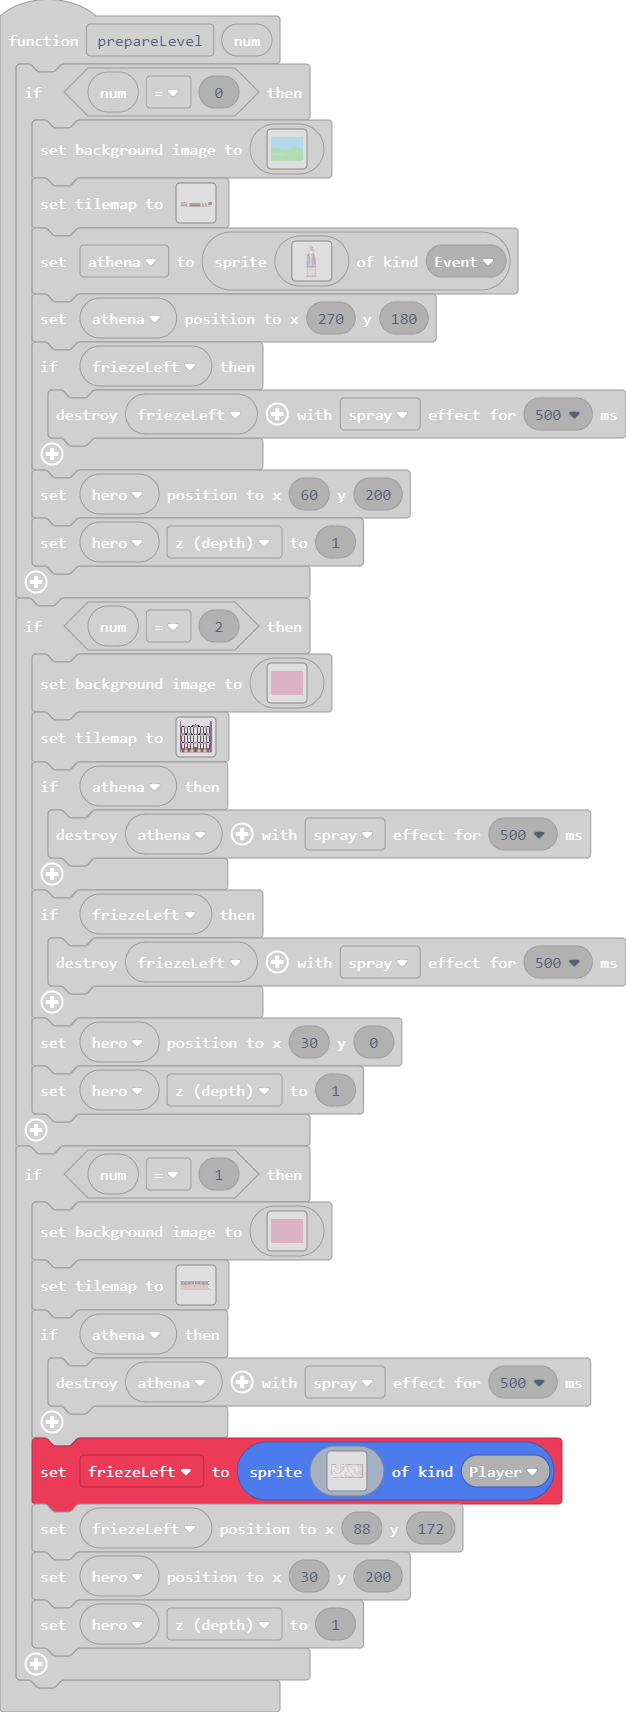
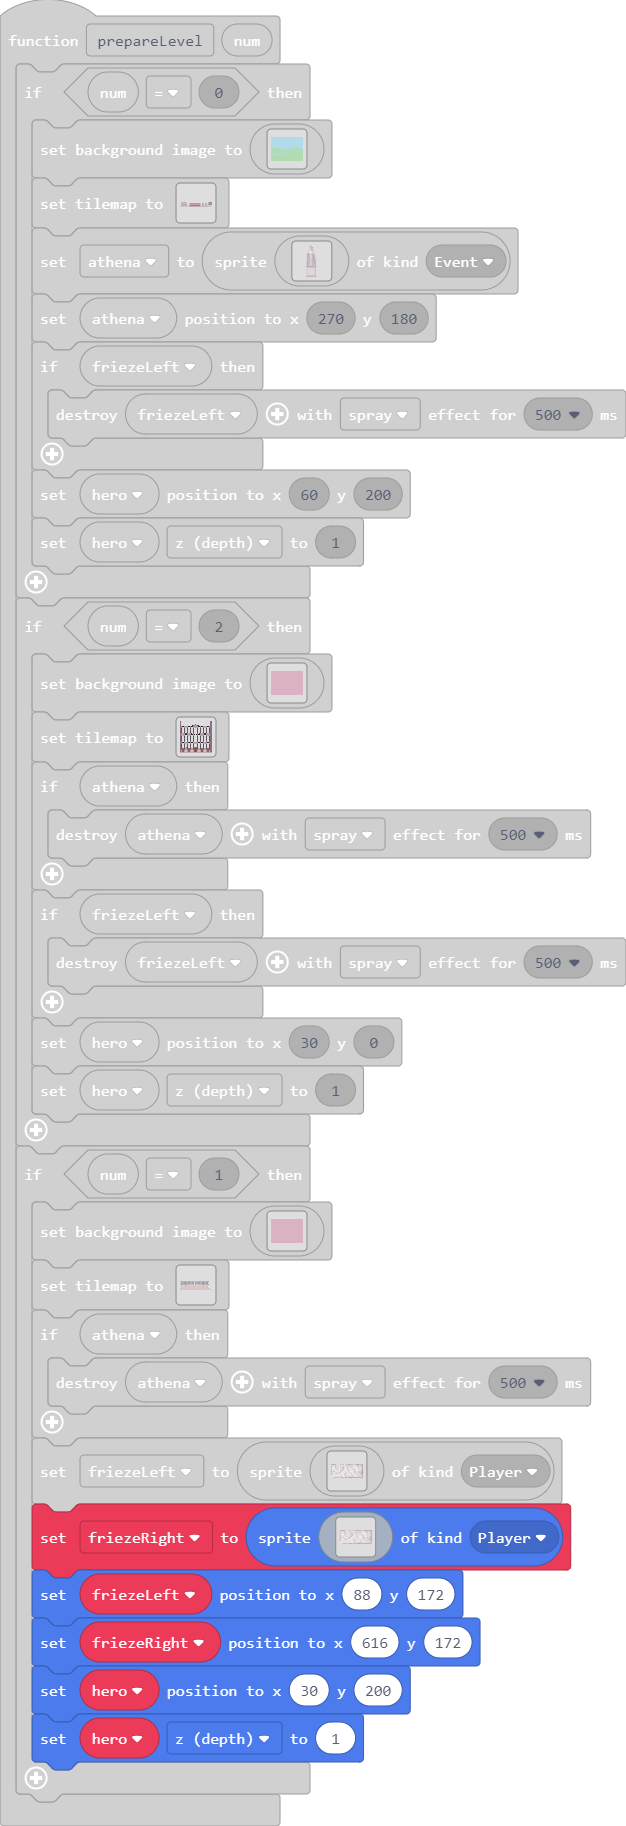
right frieze

diff --git a/main.ts b/main.ts
@@ -2261,11 +2261,63 @@ c 1 1 1 1 d d d d d d d d d d d d 1 1 1 1 1 1 1 1 1 1 1 d b b 1 1 1 1 1 1 1 1 1 
 1 1 1 1 1 1 1 1 d d d d d b b b b b d d d d d d d d d 1 1 1 d 1 1 d c c c c c 1 c c c c 1 1 c c b b b c c c 1 1 1 1 c c c c c c c c c c c c c c c d d d d d d d d 1 d d c c c c c c c c c c c c c c 1 c c c c c c c c c d d c c 
 c 1 1 1 1 c c c c c c c c c c c c c c c c c c c c c c c c 1 c c c c c c c c c c c c c c c c c b b b c c c c c c c 1 c c c c c c c c c c c c c c c c c c c c c c c c c c c c c c c c c c c c c c c c c c c c c c c c c c c c c c 
 `, SpriteKind.Player)
+        friezeRight = sprites.create(img`
+c c c c c c c c c c c c c c c c d d d d d d d d d d d 1 1 1 1 1 1 d d d c c 1 c c c c c c d 1 1 1 b b c c c c c c c . c c c c c c c c c c c c c c c c b c 1 c c c c c c c c c c c c c c c c c c c c c c c c c c c c c c 3 c c c 
+c c d c c c c c c c d d d d d c d c d d d d d d c c 1 1 1 1 1 1 c c c c d 1 1 1 d d d c c c 1 1 1 b b d d d d d d c c c c c c c c c c c c c c c d d b b 1 1 d d d d d 1 c b c c c c c c c c c c d d d d d d d d d d d d 3 c c c 
+c d d d d d d d d c c c c c c c d d d d d d d d d 1 1 1 1 1 1 1 c c c c c 1 1 1 1 c c d c 1 1 1 1 1 b d d d d d d c d d d d c c d d d d d d d d d d b b 1 1 d d d d d 1 1 b d d d d d d d c d c d c c c c c c c c c c 3 3 3 c 3 
+c d d d d d d d d d d d d c c c d d d d d d d d d 1 1 1 1 1 1 d d d d d 1 1 1 1 1 1 1 d c 1 1 1 1 1 b b d d d d d d d d d d d d d d d d d d d d d d b b 1 1 d d d d 1 1 1 1 b b d d d d d c d c c d d d d d d d d d d 3 3 3 c c 
+c d d d d d d d d 1 1 1 b b c d d d d d d d d d d 1 1 1 1 1 d d d d d 1 1 b 1 1 1 1 d 1 d 1 1 1 1 1 1 b d d d d d d d d d d d c d d d d d d d d d b b b 1 1 d d d d 1 1 1 1 1 1 b d d d d c d c c d d d d d d d d d d 3 3 3 c c 
+c d d d d d d d 1 1 1 1 1 b b d b d d d d d d d d 1 b b b b b b 1 d 1 1 b b 1 1 1 d 1 1 1 d 1 1 1 1 1 b b d d d d c d d d d d d d d d d d d d d d b b 1 1 1 d d d d 1 1 1 1 1 1 1 b b 1 d d c c d d d d d d d d d d d 3 3 3 c c 
+c d d d d d d d 1 1 d 1 1 b b d b d d d d d d d d d b b b 1 1 d 1 d 1 1 b 1 1 b 1 1 1 1 1 1 1 1 1 1 b b d d d d 1 1 d b b b c d d d d d d d d d d b b 1 1 1 d d d d 1 1 1 1 1 1 1 b b b d d c c d d d d d d d d d d d 3 3 3 c c 
+c d d d d d d c 1 1 1 1 1 1 b b b d d d d d d d d d b b b b 1 1 1 d 1 b 1 1 1 b b b 1 1 d 1 c 1 d d b d d d d 1 1 1 1 1 1 1 b b d d d d d d d d d b b 1 1 1 1 d d d 1 1 d 1 1 1 d b 1 b 1 d c c d d d d d d b d d d d 3 3 3 c c 
+c d d d d d c d 1 1 1 1 1 1 b b b d d d d d d d 1 1 1 1 1 1 1 1 1 1 b 1 1 1 b b b b b 1 1 1 1 d 1 d d b d d d d d c 1 1 1 1 1 1 b b d d d d d d d b b 1 1 1 1 d d d 1 d 1 1 d 1 d d 1 1 b 1 c c d d d 1 1 1 b b d d d 3 . 3 c c 
+c d d d d d c 1 d 1 1 1 1 1 b b b d d d d d d 1 1 1 1 1 1 1 1 1 1 1 1 d 1 b b d d b b b b 1 d 1 d 1 d d b b d d c d d d d d c c 1 1 b b d d d d d b b 1 1 1 1 1 d d d 1 d 1 d 1 1 1 1 1 1 b c c d d 1 1 1 1 1 1 b b d 3 . 3 c c 
+c c d d d d 1 1 d 1 1 1 1 1 b b b d d d d d d 1 1 1 1 1 1 1 1 1 1 b b d b b d d d d d b b b 1 1 1 1 1 1 1 1 b d c d d d d d c 1 d d 1 b b d d d d b d 1 d 1 1 1 d d d 1 1 1 d 1 1 1 1 1 1 1 b c d d d d d 1 1 1 1 b 1 3 . 3 c c 
+. c d d d d 1 d 1 1 1 1 1 1 b b b d d d d 1 1 1 1 1 d 1 1 1 1 1 1 b b d d d d d d d b c c b 1 d 1 1 1 1 1 1 1 b c d d d d 1 c 1 1 d d 1 b d d d d d d d 1 1 1 1 1 d 1 1 1 1 d 1 1 1 1 1 d 1 1 b d d d d d d d 1 1 1 b 3 . 3 c c 
+. c d d 1 1 1 d d 1 1 1 1 d b b d b d d d 1 1 b b 1 c 1 1 1 1 1 1 1 b c d d d d d d b c d d 1 1 1 1 1 1 1 d d d b d d d d 1 1 1 1 d d 1 1 b b d d d d d d d 1 1 1 1 1 1 1 1 1 1 1 1 1 1 1 1 1 b d d d d d d d d 1 1 1 1 3 3 c c 
+c c d d 1 1 d 1 1 1 1 1 1 1 d b c c c c 1 1 b b 1 b d 1 1 1 1 1 1 1 b b d d c d d d b b d d 1 d d d 1 1 1 1 1 c b d d d d 1 1 1 1 1 d d 1 1 b d d d d d d d d d 1 1 1 1 1 1 1 1 1 1 1 1 1 1 1 1 b d d d d d d d 1 1 1 1 1 c c c 
+c d d d 1 1 1 1 1 1 1 1 1 1 1 1 b b b b 1 1 b b b b c 1 1 1 1 1 1 1 b d d d d d d d b c b c c 1 1 1 1 1 1 d 1 c d d d d d b 1 1 1 1 d d 1 1 b b d d d d d d d d d d d 1 1 1 1 1 1 1 1 1 1 1 1 1 b d d d d d d d d 1 1 1 1 c c c 
+c c c 1 1 1 1 1 1 1 1 1 1 1 1 1 1 1 b b 1 d b d 1 b d 1 1 1 1 1 1 1 b d d d d d d d b b b d d 1 1 1 1 1 1 1 d b d d d d d b 1 1 1 1 1 d d 1 1 1 1 b d d d d d d d d d b 1 d 1 1 1 1 1 1 1 1 1 1 b d d d d d d d d 1 d 1 1 c c c 
+d d d d 1 1 1 1 1 1 1 1 1 1 1 1 1 1 1 d 1 1 d d 1 b 1 1 1 1 1 1 1 1 b d d d b b b d d b d b d 1 1 1 1 1 1 1 d b d d d d d b 1 1 1 1 1 1 d d 1 1 1 b b d d d d d d d d b 1 1 1 1 1 1 1 1 1 1 c 1 b d d d d d d d d 1 d 1 1 c c c 
+d d d d d 1 d 1 d 1 1 1 1 1 1 1 1 d d d 1 1 1 1 d b b 1 1 1 1 1 1 1 b d b b 1 1 b b c c b b b b 1 1 1 1 1 1 1 b d d d d d b 1 1 1 1 1 1 d d 1 1 1 1 b d d d d d d d d d b d 1 1 1 1 1 1 1 d 1 1 b d d d d d d d 1 1 d 1 1 c c c 
+d d d d d d d d 1 1 1 1 1 1 1 d d d d d d 1 1 1 1 1 1 1 1 1 1 1 1 1 b c b 1 1 1 b b b d b b b b 1 1 1 1 1 1 1 d b d d d d d 1 1 1 1 1 1 1 d 1 1 1 1 1 b d d d d d d d d b 1 d 1 d 1 1 1 1 1 1 1 b 1 d d d d d d 1 1 1 3 1 c c c 
+d d d d d d d 1 1 1 d 1 c 1 d 1 1 d d d d d 1 1 1 c 1 1 1 1 1 1 1 b b d 1 1 1 1 1 b b d b b 1 1 1 1 1 1 1 1 1 1 b d d d d d 1 c d d 1 1 d d 1 1 1 1 1 1 b d d d d d d d d b 1 d 1 1 1 1 1 1 1 c 1 1 d d d d d 1 1 1 1 1 . c c c 
+c c d d d d 1 1 1 1 1 1 1 1 1 c c 1 1 d d d d 1 1 d 1 1 1 1 1 1 b b d 1 1 1 d d 1 1 b b b d 1 1 1 1 1 1 d 1 1 1 b d d d d d b 1 1 1 b 1 d 1 1 1 1 1 1 1 1 b d d d d d d d b b b 1 1 1 1 1 1 1 c 1 1 d d d d 1 1 1 1 1 3 . c c c 
+c d d d d 1 1 1 1 d 1 1 1 1 1 d 1 1 d 1 1 1 1 1 1 b 1 1 1 1 1 1 b b 1 1 c c d d d 1 1 b b d 1 1 1 1 1 1 1 1 1 1 d b d d d d c d d d d 1 d 1 1 1 1 1 1 1 1 b d d d d d d d b b b 1 1 1 1 1 1 1 b 1 1 1 d d 1 1 1 1 1 d 3 . c c c 
+c c d d d 1 1 1 1 1 1 1 1 1 1 1 1 1 1 d d d 1 1 b b d 1 1 1 1 1 1 1 1 c c d d d c d 1 d 1 1 1 1 1 b 1 1 1 1 1 1 1 b d d d d d d d d 1 d 1 1 1 1 1 1 1 1 1 b d d d d d 1 b b b 1 1 1 1 1 1 1 1 1 b 1 1 1 1 1 b d 1 d d 3 . c c c 
+c c d d d 1 1 1 d 1 d 1 1 1 1 1 1 1 1 1 c c c b b b c 1 1 1 1 1 1 1 c c d d d d c c d d 1 1 1 1 1 1 1 1 1 1 d 1 1 1 b d d d d d d d 1 1 1 1 1 1 1 1 1 1 1 1 b d d 1 1 b b 1 1 1 1 1 1 1 1 1 1 1 b 1 1 1 d d b d d d d 3 c c c c 
+c c d d d 1 d c 1 c c c c 1 1 1 1 1 1 1 1 1 1 b 1 d d 1 1 1 1 d 1 1 c d d d d d d c 1 1 1 d 1 1 1 1 1 1 1 1 1 d 1 1 1 b d d d d d d 1 1 1 1 1 1 1 1 1 1 1 1 b b 1 1 b b b b 1 1 1 1 1 1 b 1 1 c b 1 1 d d b b d d d d 3 c c c c 
+c c d d d 1 c d 1 1 d b b c 1 1 1 1 1 1 1 1 1 1 1 d d 1 1 1 1 1 1 c c d d d d d d 1 1 1 1 1 1 1 1 1 1 b 1 1 1 1 1 1 1 d b d d d d d 1 1 1 1 1 1 1 1 1 1 1 1 d b 1 b b 1 1 b b b 1 1 1 1 b 1 1 1 b d 1 d b b d d d d d 3 c c . c 
+c c d d d c d c 1 1 1 1 c b 1 1 1 1 1 1 1 1 1 1 1 1 1 1 1 1 1 1 d c d d d d d 1 1 1 1 1 1 1 1 1 1 1 b b 1 1 1 1 1 1 1 1 b d d d d d 1 1 1 1 1 1 1 1 1 1 1 1 1 1 1 b b b d 1 b b b 1 1 1 1 1 d 1 d b b b b d d d d d d 3 c c . c 
+c c d d d d d d 1 1 1 1 1 c b c 1 1 1 1 1 1 1 1 1 1 1 1 1 1 1 1 c c d d d d d 1 1 1 1 d 1 1 1 1 1 1 d b 1 1 1 1 1 1 1 1 d b d d d d 1 1 1 1 d 1 1 1 1 1 1 1 1 1 b b 1 b b d 1 1 d b 1 1 1 1 d c 1 b b b d d d d d d d 3 c c c c 
+c c d d d d d d 1 d 1 1 1 1 d b b c 1 1 1 1 1 1 1 1 1 1 1 1 1 c c d d d d d 1 1 1 1 1 1 d 1 1 1 1 1 1 1 1 1 1 1 1 d 1 1 1 b d c d d 1 1 1 1 b 1 1 1 1 1 1 1 1 1 b 1 1 1 1 b d 1 1 1 b b 1 b 1 c d 1 b d d d d d d d d 3 c c c c 
+c d d d d d d d 1 d 1 1 1 1 1 d d b b 1 1 1 1 1 1 1 1 1 1 c c c d d d d c 1 1 1 1 1 1 c 1 1 1 1 1 c c c 1 1 1 c 1 1 1 1 1 1 b c d d 1 1 1 1 b 1 1 1 1 1 1 1 1 b b b d 1 1 1 b d 1 1 b 1 1 1 1 c 1 1 b b d d d d d d d 3 c c c c 
+c d d d d d d 1 1 1 1 1 1 1 1 1 d d c 1 c 1 1 1 c 1 1 c 1 c d d d d d c 1 1 1 1 1 1 1 1 1 1 1 1 1 c d 1 1 1 d 1 d 1 1 1 1 1 b b d d 1 1 1 1 b b 1 1 1 1 1 1 1 1 b b d d d 1 b 1 1 1 b b 1 c 1 b d 1 1 b b d d b d d d 3 c c c c 
+c c d d d d d 1 1 1 1 1 1 c 1 c c d c c c 1 1 1 c b b 1 c d d d d d 1 1 1 1 1 1 1 1 1 1 1 1 1 1 c c 1 1 1 c c b 1 1 1 1 1 1 1 b d d 1 1 1 1 b b 1 1 1 1 1 1 1 1 c 1 b c c c b b 1 1 1 b 1 b d 1 b d 1 b d b d b d d d 3 c c c c 
+c c d d d d d 1 1 1 1 d d d 1 d d d d d 1 1 1 b b d d d d d d d 1 1 1 1 1 1 1 1 1 1 1 1 1 1 1 d c d 1 1 1 d d b b d 1 1 1 1 1 b d d 1 1 1 1 b d b 1 1 1 1 1 1 1 1 1 1 b 1 1 1 b 1 1 1 d b 1 1 d 1 b d 1 b d b d b d d 3 c c c c 
+c c d d d d d 1 1 1 1 d 1 1 d d d d 1 1 1 b b d d d d d d d 1 1 1 1 1 1 1 1 1 1 1 1 1 1 1 1 1 d c 1 1 1 d d d d b d d 1 1 1 1 1 b d 1 1 1 1 b d d b 1 1 1 1 1 1 1 d d d b 1 1 b 1 1 1 d b 1 1 d 1 d b d 1 b d b b b d 3 c 3 c c 
+c c d d d d 1 1 1 1 d 1 d d d 1 1 1 1 1 b d d d d d d d d 1 1 1 1 1 1 1 1 1 1 1 1 1 1 1 1 1 1 b c 1 1 1 d d d d d b d 1 1 1 1 1 1 b 1 1 1 1 b d d 1 b 1 1 1 1 1 1 d d d b d 1 1 b 1 1 d d b 1 1 d 1 b d 1 b 1 d b d b 3 c 3 c c 
+c c d d d d d 1 1 1 1 d d 1 1 1 1 1 1 b d d d d d d d 1 1 1 1 1 1 1 1 1 1 1 1 1 1 1 1 1 1 1 1 b b 1 1 1 d d d d d d b 1 1 1 1 1 d b b 1 1 1 b d d d b 1 1 1 1 1 1 d d 1 1 b 1 1 b b 1 b d d b 1 1 1 d b d 1 b 1 1 b b b b 3 c c 
+c c d d d 1 d 1 1 1 d 1 1 1 1 1 d 1 b d d d d d d d 1 1 1 1 1 1 1 1 1 d 1 b b d 1 1 1 1 1 1 1 b b c 1 1 1 d d d d d 1 b 1 1 1 1 1 1 1 d 1 1 b d d d 1 b 1 1 1 1 1 d d 1 d 1 b 1 1 b d 1 b d d b 1 1 1 b d d b d 1 1 d b b 3 c c 
+c c d d 1 1 1 1 1 d d 1 1 1 1 1 1 d d d d d d d 1 1 1 1 1 1 1 1 d 1 1 b b b d d 1 1 1 1 1 1 1 b 1 b c 1 1 1 d d d d 1 1 d 1 1 1 1 d 1 d 1 1 b d d d 1 b b 1 1 d 1 1 d 1 d 1 1 d d 1 b 1 b d d d b 1 1 1 1 d 1 b d 1 d 3 b b . c 
+c c d 1 1 1 d 1 d d d d d d d d d d d d d d 1 1 1 1 1 1 1 1 1 1 1 b b d d d d d 1 1 1 1 1 1 1 b b b c 1 1 1 d d d d 1 1 1 b 1 1 1 1 1 1 1 1 b d d d d 1 b b 1 1 1 1 d 1 1 1 1 d d 1 b d 1 b d d d b 1 b 1 1 d 1 b b 1 d b c . c 
+c c 1 1 1 1 d d d d d d d d d d d d d d 1 1 1 1 1 1 1 1 1 1 1 b b 1 1 1 1 d d d d 1 c 1 1 1 1 1 b b 1 c 1 1 1 d d 1 d 1 1 d b 1 1 1 1 d 1 1 1 d d d d d d b b 1 1 1 1 d 1 1 d 1 d 1 d 1 1 d b d d d b 1 b 1 b d 1 1 b b d b . c 
+c 1 1 1 1 d d d d d d d d d d d d 1 1 1 1 1 1 1 1 1 1 1 d b b 1 1 1 1 1 1 1 1 1 1 1 1 1 1 1 1 1 b b b d c 1 1 1 d 1 d 1 1 d b 1 1 1 1 1 1 1 1 d d d d d d d b b 1 1 1 1 1 1 d 1 d 1 1 1 1 d d b d d b 1 b 1 1 d d 1 d b d b 3 c 
+1 1 1 1 d d d d d 1 1 d 1 d d 1 1 1 1 1 1 1 1 1 1 1 b b b d 1 1 1 1 1 1 1 1 1 1 1 1 1 1 1 1 1 1 1 b b d c 1 1 1 1 d 1 d 1 d b b 1 1 1 1 d 1 1 1 d d d d d d d b 1 1 1 1 1 1 d 1 d d 1 d 1 1 d b d d b 1 1 b 1 1 d 1 1 b d c b c 
+1 1 1 1 d d d 1 1 1 1 1 1 1 1 1 1 1 1 1 1 1 1 d d b d d d 1 d 1 1 1 1 1 1 1 1 1 1 1 1 1 1 1 1 1 1 b b d d c c 1 1 1 1 1 1 d d b b 1 1 1 1 d 1 1 d d d d d d d d b 1 1 1 1 d 1 1 d d d 1 1 1 b d b b d b 1 1 1 1 b d 1 b 1 c c c 
+1 1 1 1 d d 1 1 1 1 1 1 1 1 1 1 1 1 1 1 d b b b b d d d 1 1 1 1 1 1 c c d 1 1 1 1 1 1 1 1 1 1 1 1 1 b d d d c 1 1 1 d d d d d b b b 1 1 1 d d 1 d d d d d d d d d 1 1 d 1 1 1 d d d d 1 1 1 1 1 1 d b b d 1 1 1 1 1 1 1 1 1 c c 
+1 d 1 1 1 1 1 1 1 1 1 1 1 1 1 1 1 1 d b b d d d d d d 1 1 d d 1 1 d 1 1 1 c d 1 1 1 1 1 1 1 1 1 1 1 b d d d c c 1 1 d d d d d d b b b 1 d d d d d d d d d d d d d 1 d 1 d 1 d d d d d 1 1 1 d b 1 1 d d b 1 1 1 d d d d d d c c 
+1 1 1 1 1 1 1 1 1 1 d d d d 1 1 d d b d d d d d d d d 1 d 1 d 1 1 d d d d d c c c 1 1 1 1 1 1 1 1 b b d d d 1 c 1 1 d d d d d d d b b 1 c c c c c c c c c c c c c 1 c 1 c c d d d d d 1 1 1 d d b 1 1 d b d d d d d d d d d c c 
+1 1 1 1 1 1 1 1 d d d d d b b b b b d d d d d d d d d 1 1 1 d 1 1 d c c c c c 1 c c c c 1 1 c c b b b c c c 1 1 1 1 c c c c c c c c c c c c c c c d d d d d d d d 1 d d c c c c c c c c c c c c c c 1 c c c c c c c c c d d c c 
+c 1 1 1 1 c c c c c c c c c c c c c c c c c c c c c c c c 1 c c c c c c c c c c c c c c c c c b b b c c c c c c c 1 c c c c c c c c c c c c c c c c c c c c c c c c c c c c c c c c c c c c c c c c c c c c c c c c c c c c c c 
+`, SpriteKind.Player)
         friezeLeft.setPosition(88, 172)
+        friezeRight.setPosition(616, 172)
         hero.setPosition(30, 200)
         hero.z = 1
     }
 }
+let friezeRight: Sprite = null
 let friezeLeft: Sprite = null
 let athena: Sprite = null
 let currentObject: Sprite = null
